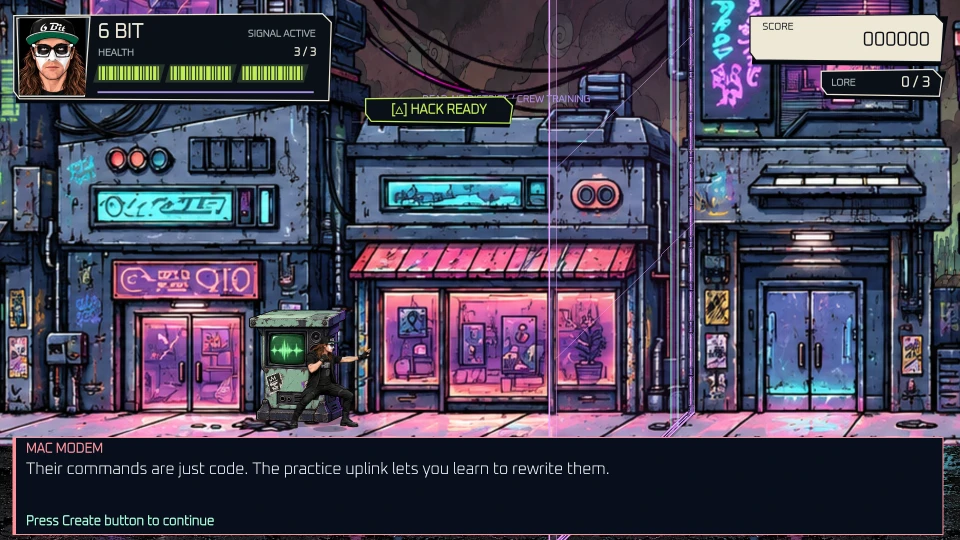
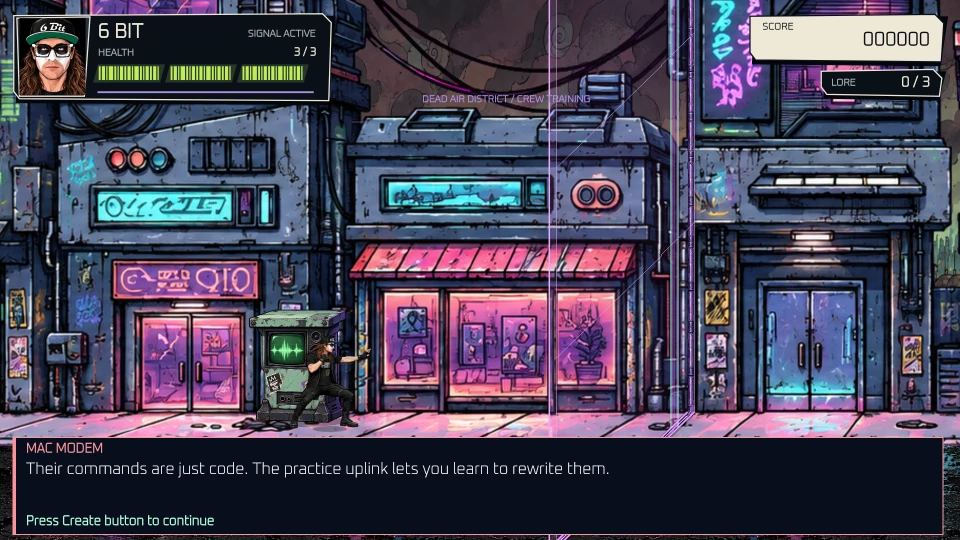
Keep hack-ready popup out of tutorial dialogue

Changed region(s): [[0.375, 0.1778, 0.5625, 0.237]]

diff --git a/src/game/ui-manager.js b/src/game/ui-manager.js
@@ -215,7 +215,7 @@ window.drawGameUI = function(ctx) {
   const hp = window.BARCODE.ComicHUD.health;
   window.BARCODE?.combatFX?.drawDamageHUD(ctx, window.player, hp.x, hp.y, hp.width, hp.height);
   window.BARCODE?.combatFX?.drawAmpHUD(ctx);
-  if (!bossCinematicActive && !window.gameState.gameOver && !window.gameState.victory && !window.BARCODE?.stageFX?.ratEvent) window.BARCODE.ComicHUD.hack(ctx, window.hackingSystem?.getReadyPopup?.());
+  if (!bossCinematicActive && !window.gameState.gameOver && !window.gameState.victory && !window.BARCODE?.stageFX?.ratEvent && !window.tutorialSystem?.isActive?.()) window.BARCODE.ComicHUD.hack(ctx, window.hackingSystem?.getReadyPopup?.());
   
   // Draw objectives after tutorial completion
   if (tutorialCompleted && !bossCinematicActive && !['boss_ready', 'boss_combat', 'level_complete'].includes(window.sector1Progression?.state)) {
